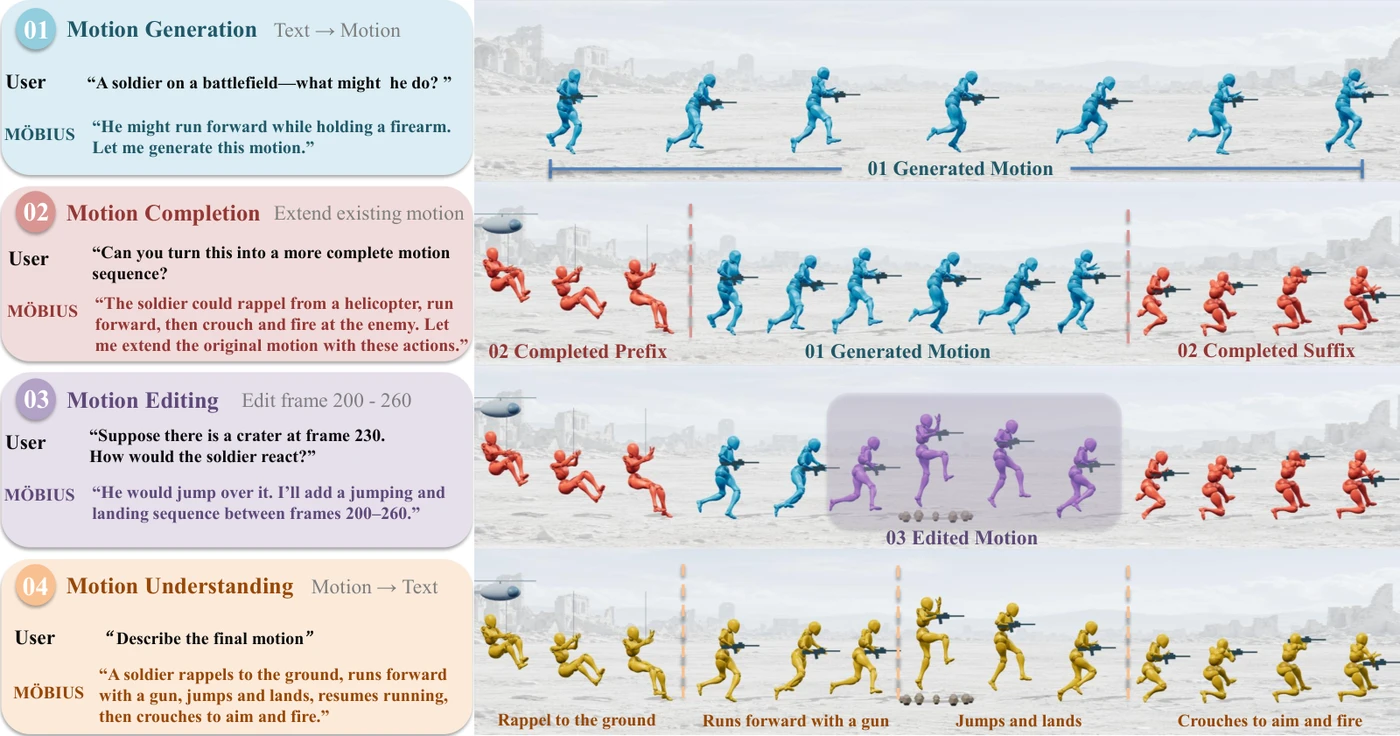
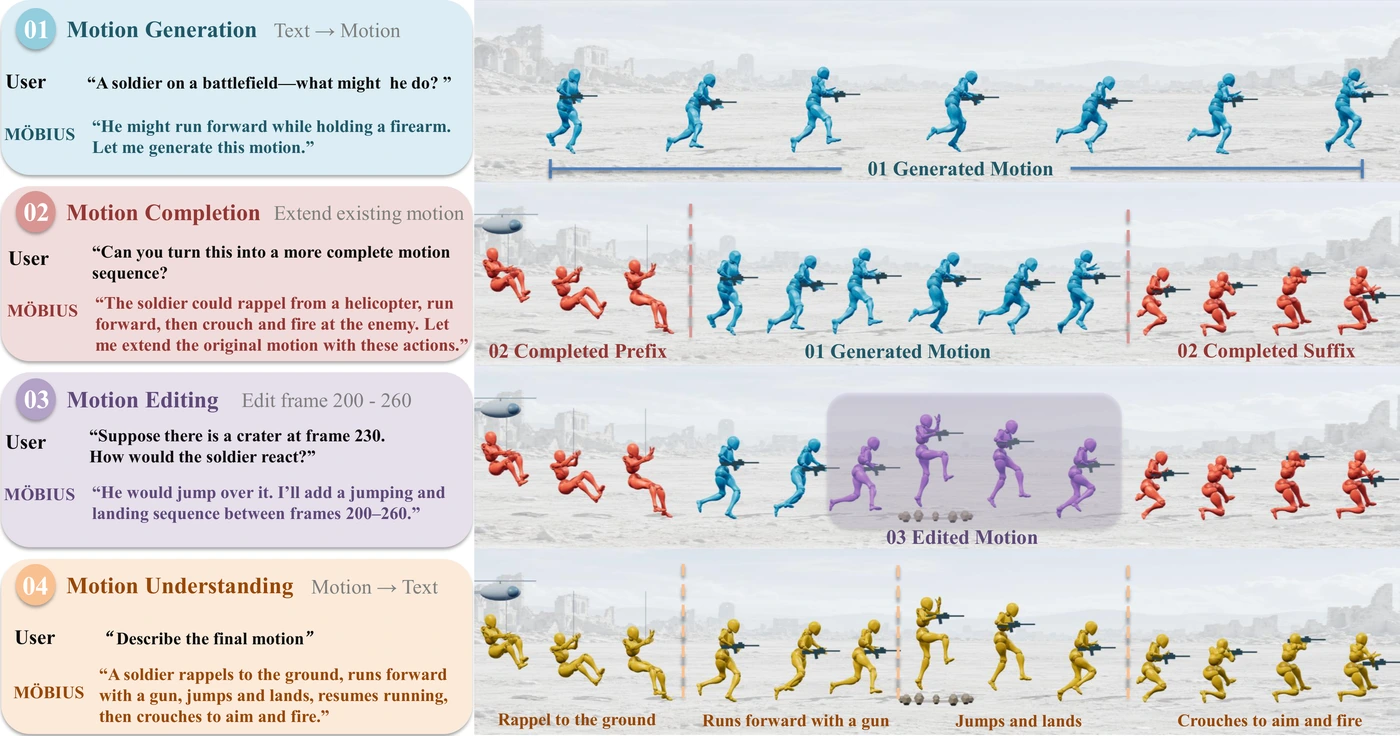
Update Möbius cover image from teaser.pdf

diff --git a/index.html b/index.html
@@ -30,7 +30,7 @@
     <section class="research" id="preprints" aria-labelledby="preprints-title">
       <div class="section-heading"><h2 id="preprints-title">Preprints</h2><span>* Equal contribution · † Corresponding author</span></div>
       <article class="paper">
-        <a class="paper-image" href="https://jiazhishu.github.io/mobius/" aria-label="Möbius project page"><img src="assets/mobius.webp" alt="Möbius unified motion-language model for motion generation, completion, editing, and understanding" width="640" height="400" loading="lazy"></a>
+        <a class="paper-image" href="https://jiazhishu.github.io/mobius/" aria-label="Möbius project page"><img src="assets/mobius.webp?v=20261104-teaser" alt="Möbius unified motion-language model for motion generation, completion, editing, and understanding" width="640" height="400" loading="lazy"></a>
         <div class="paper-info">
           <div class="paper-meta"><span class="venue">arXiv</span><span>2026</span><span class="contribution">Co-first author</span></div>
           <h3><a href="https://jiazhishu.github.io/mobius/">Möbius: A Unified Motion-Language Model Bridging Understanding and Generation</a></h3>
